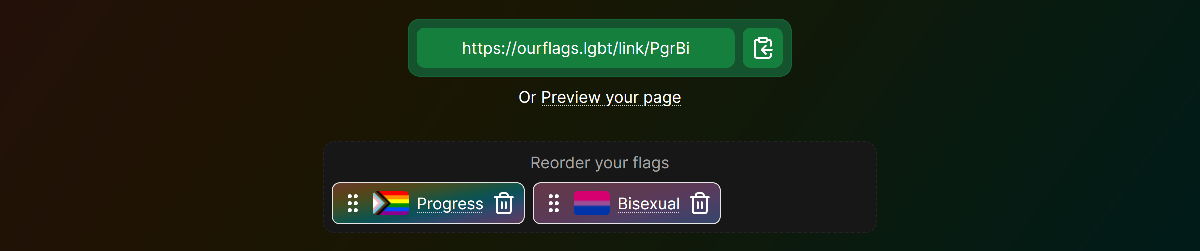
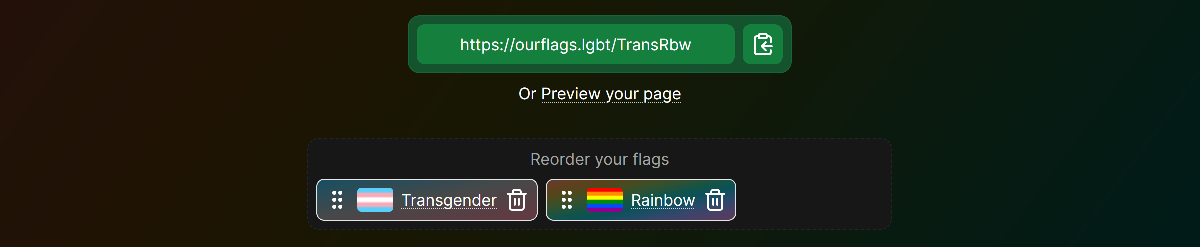
Move pages around
Again.

diff --git a/app/[ids]/head.tsx b/app/[ids]/head.tsx
@@ -4,8 +4,8 @@
 // License, v. 2.0. If a copy of the MPL was not distributed with this
 // file, You can obtain one at http://mozilla.org/MPL/2.0/.
 
-import { HeadTags } from "../../../lib/components/head";
-import { buildShareString, parseShareString } from "../../../lib/shortcodes";
+import { HeadTags } from "../../lib/components/head";
+import { buildShareString, parseShareString } from "../../lib/shortcodes";
 
 export default async function FlagsIdHead({
   params,
@@ -19,7 +19,7 @@ export default async function FlagsIdHead({
       <HeadTags
         title={undefined}
         description="These are our flags, and we fly them with pride"
-        path={`/link/${buildShareString(flags)}`}
+        path={`/${buildShareString(flags)}`}
         flags={[]}
         overrideFaviconFlags="default"
         overrideOgFlags="all"
@@ -32,7 +32,7 @@ export default async function FlagsIdHead({
     <HeadTags
       title={`${flags.length} ${flags.length === 1 ? "flag" : "flags"}`}
       description="These are my flags"
-      path={`/link/${buildShareString(flags)}`}
+      path={`/${buildShareString(flags)}`}
       flags={flags}
       ogImageStyle="my-flags"
     />

diff --git a/app/[ids]/page.tsx b/app/[ids]/page.tsx
@@ -6,17 +6,13 @@
 
 import Link from "next/link";
 import { notFound } from "next/navigation";
-import { FullWidthSection } from "../../../lib/components/layout/FullWidthSection";
-import { PageHeading } from "../../../lib/components/layout/Headings";
-import { Section } from "../../../lib/components/layout/Section";
-import { parseShareString } from "../../../lib/shortcodes";
+import { FullWidthSection } from "../../lib/components/layout/FullWidthSection";
+import { PageHeading } from "../../lib/components/layout/Headings";
+import { Section } from "../../lib/components/layout/Section";
+import { parseShareString } from "../../lib/shortcodes";
 import { FlagSectionWithContent } from "./components";
 
-export default async function LinkIdsPage({
-  params,
-}: {
-  params: { ids: string };
-}) {
+export default async function IdsPage({ params }: { params: { ids: string } }) {
   const flags = parseShareString(params.ids);
 
   if (flags.length === 0) {

diff --git a/app/[ids]/components.tsx b/app/[ids]/components.tsx
@@ -5,10 +5,10 @@
 // file, You can obtain one at http://mozilla.org/MPL/2.0/.
 
 import { PropsWithChildren } from "react";
-import { FlagExcerptSection } from "../../../lib/components/layout/FlagExcerptSection";
-import { getFlagData } from "../../../lib/server/getData";
-import { renderMarkdownToReact } from "../../../lib/server/remark";
-import { FlagMeta } from "../../../lib/types";
+import { FlagExcerptSection } from "../../lib/components/layout/FlagExcerptSection";
+import { getFlagData } from "../../lib/server/getData";
+import { renderMarkdownToReact } from "../../lib/server/remark";
+import { FlagMeta } from "../../lib/types";
 
 export interface FlagExcerptSectionProps extends PropsWithChildren {
   flag: FlagMeta;

diff --git a/lib/components/link-form/share.tsx b/lib/components/link-form/share.tsx
@@ -18,10 +18,10 @@ export function LinkFormShare() {
   const { selected: flags } = useSelectedFlags();
 
   const shareUrl = useMemo(
-    () => `${BASE_URL}/link/${buildShareString(flags)}`,
+    () => `${BASE_URL}/${buildShareString(flags)}`,
     [flags]
   );
-  const defaultUrl = useMemo(() => `${BASE_URL}/link/♡♡♡♡♡♡♡`, []);
+  const defaultUrl = useMemo(() => `${BASE_URL}/♡♡♡♡♡♡♡`, []);
 
   const [copyState, setCopyState] = useState<"ready" | "copied" | "error">(
     "ready"

diff --git a/app/layout.tsx b/app/layout.tsx
@@ -40,7 +40,10 @@ export default function RootLayout({
         <script src="/dark.js" type="text/javascript" />
       </head>
       <body className={`min-h-screen font-body text-black dark:text-white`}>
-        <GradientBackground colors={BG_THEMES} className="flex flex-col">
+        <GradientBackground
+          colors={BG_THEMES}
+          className="flex min-h-screen flex-col"
+        >
           <Main>{children}</Main>
           <Footer />
           <DarkModeListener />

diff --git a/app/(home)/page.tsx b/app/(home)/page.tsx
@@ -49,7 +49,7 @@ export default function LinkFormPage() {
               </p>
             </div>
             <Link
-              href="/link"
+              href="/my-flags"
               className="inline-flex gap-2 rounded-lg border border-green-400 bg-green-100 p-2 hover:bg-green-200 focus:bg-green-200 dark:border-green-800 dark:bg-green-900 dark:hover:bg-green-800 dark:focus:bg-green-800"
             >
               Get started <ArrowRight />
